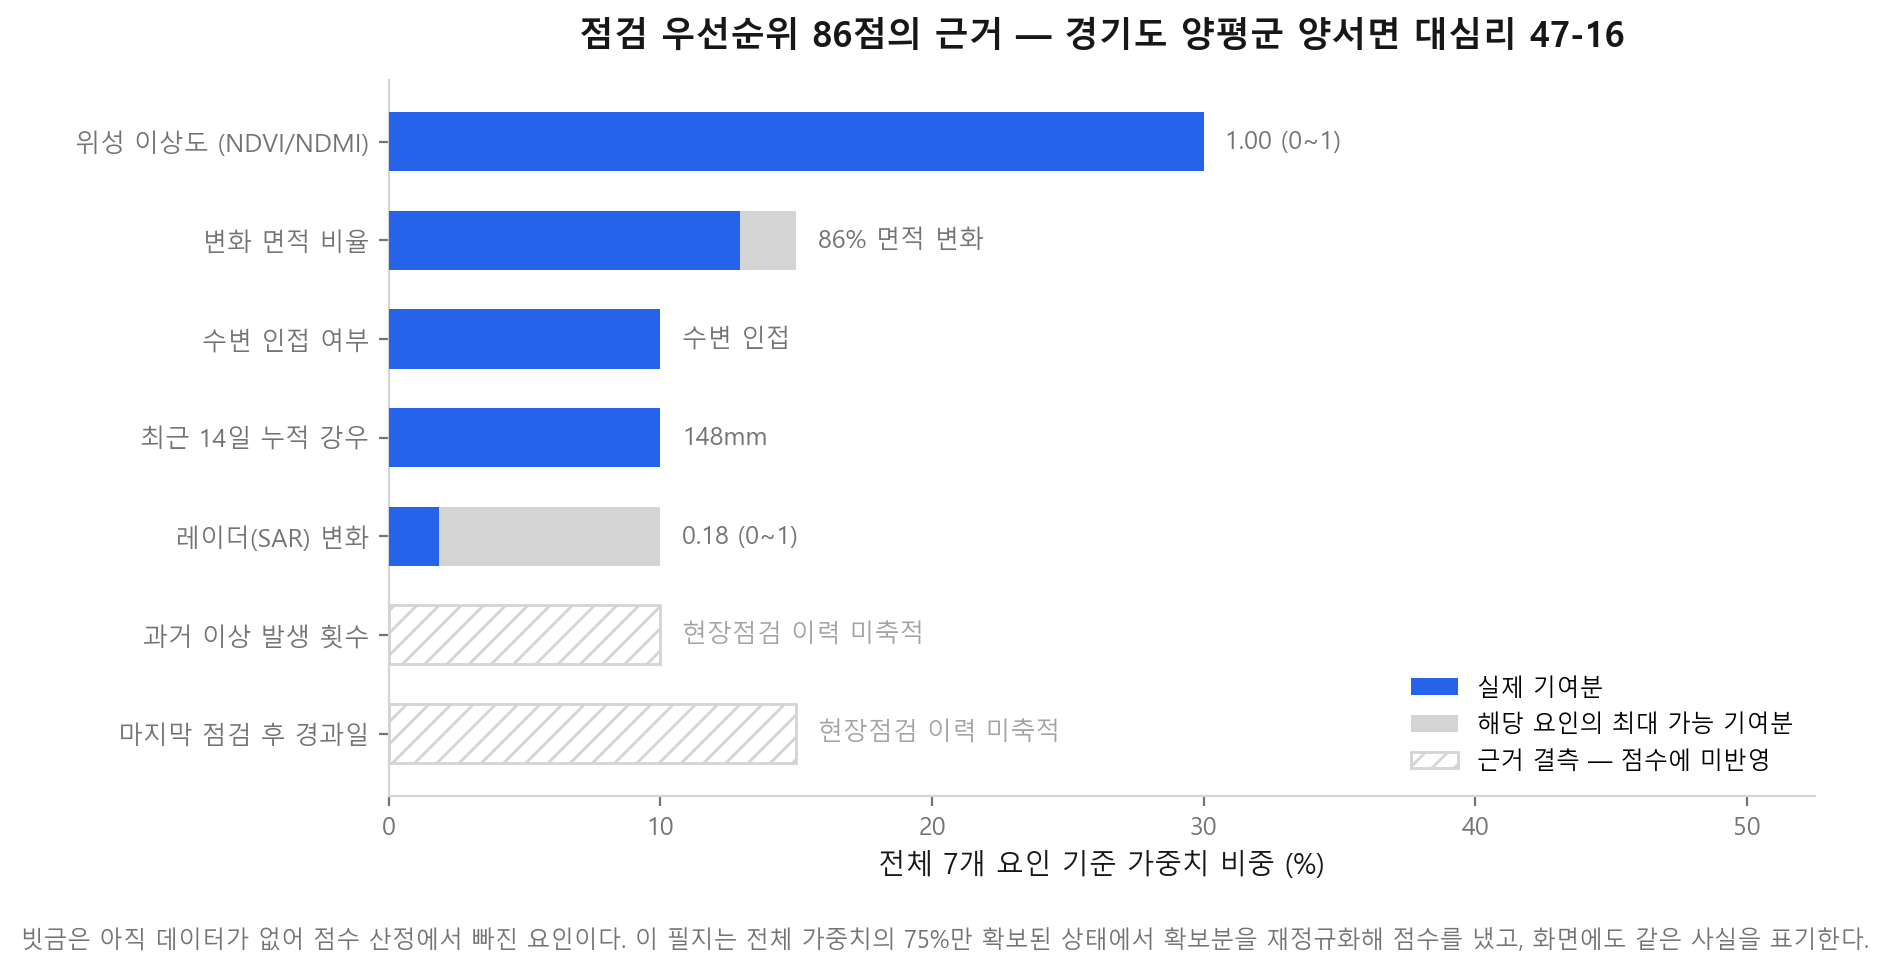
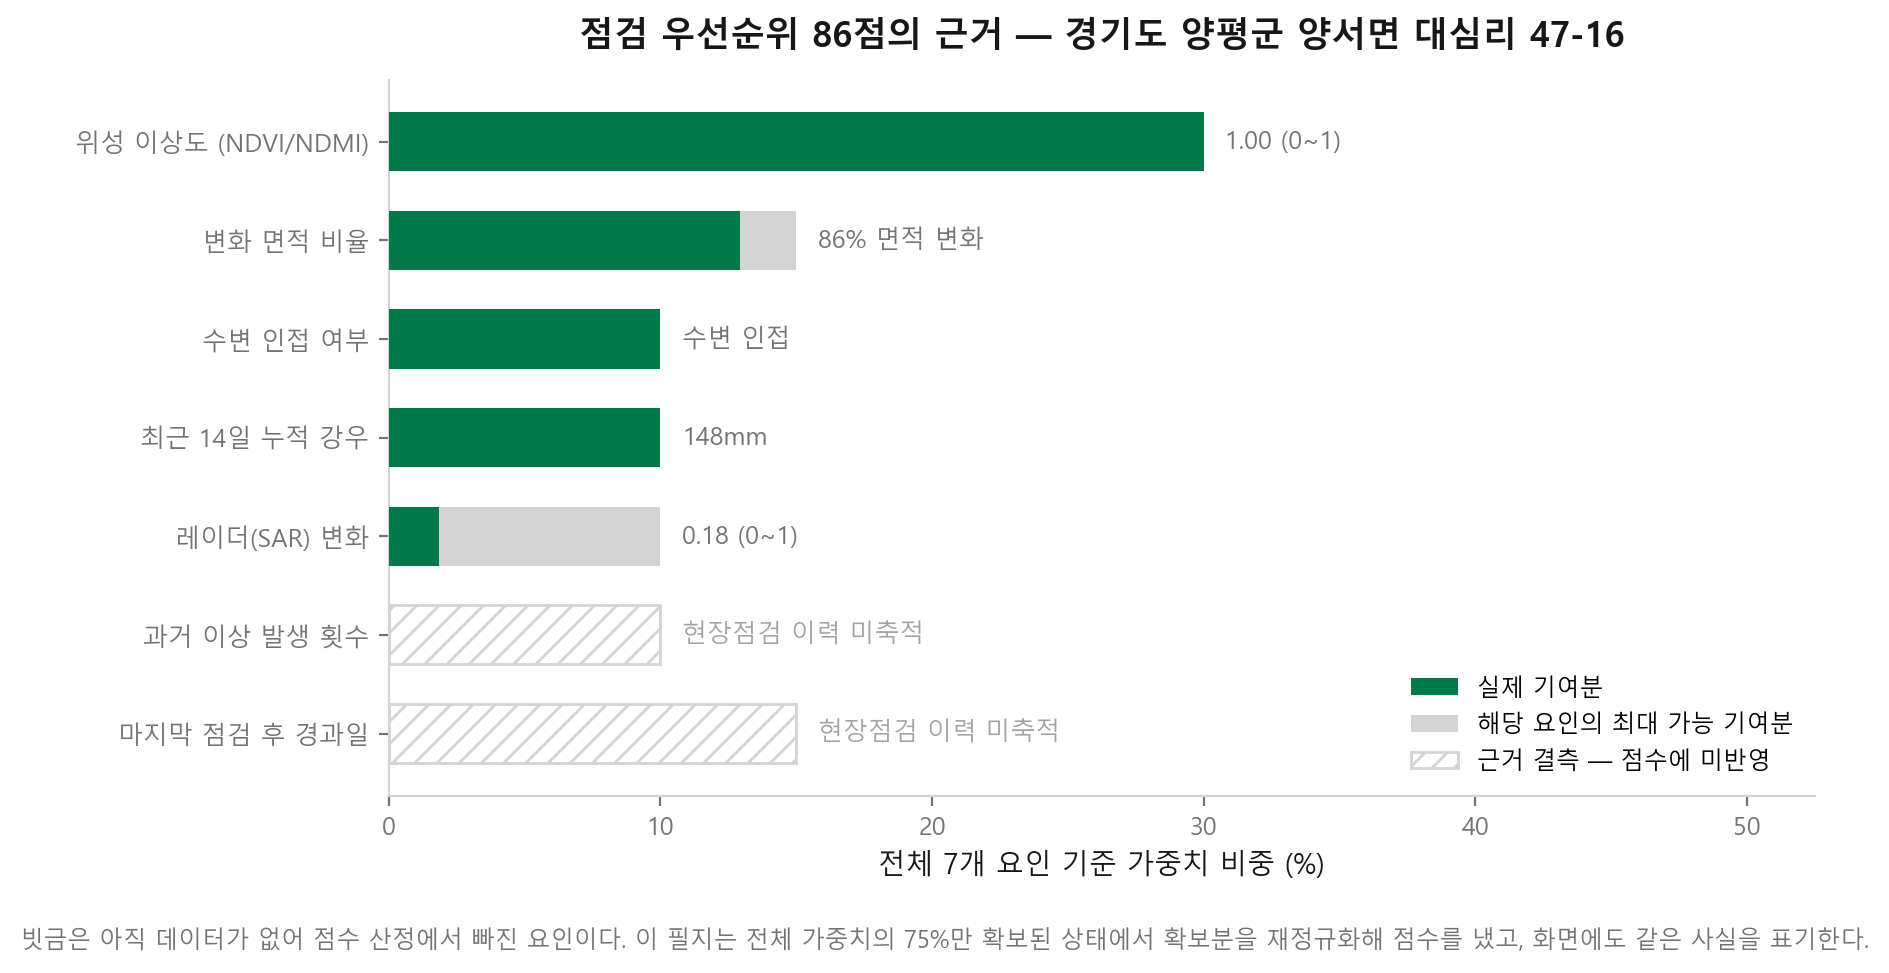
UI 색상 계열을 기관 CI 그린으로 전환하고 등급을 적-녹 램프로 재구성
로고 PNG에서 실제 색을 뽑아 팔레트를 만들었다(주색 #009058, 보조 라임 #90d000).
감으로 고르지 않았고, 쓰이는 자리마다 대비를 계산해서 값을 정했다.

--brand는 로고 원색 그대로가 아니라 #00794a로 한 단계 어둡게 잡았다. 원색
#009058은 흰 배경 대비 4.09:1이라 11~13px 본문·아이콘에 쓰기엔 부족한데,
--brand는 섹션 번호·강조 숫자·링크 색으로 쓰이기 때문이다(#00794a는 5.48:1).
로고 원색은 그라디언트의 밝은 끝(--brand-2)으로 남겼다.

글라스·그림자·반경 같은 재질 속성은 건드리지 않았다. 색상 계열만 바꿨다.
다만 그림자와 포커스 링의 rgba가 청록을 머금고 있어서 그 값만 초록으로 옮겼다.
앱 배경(#eef3f5)과 경계선도 푸른 회색이라 초록 기운의 회색으로 바꿨다.

등급 램프를 적색-CI그린 2색 구성으로 재편했다. 색상만으로 순서를 표현하면
적록색약에서 무너지므로 인접 단계마다 회색조 명도차를 0.06 이상 확보했다
(3순위를 #d4a017에서 #a3b545로 옮긴 이유가 이것이다 - 2순위·정상 양쪽과
명도가 동시에 벌어지는 값이 이 근처밖에 없었다).

figure에서 발견한 충돌 하나: F3 워크플로는 위성·시스템 단계를 파랑, 현장·드론
단계를 초록으로 나눠 그리고 있었다. 브랜드를 초록으로 바꾸면 두 계열이 같은
색이 되어 도식이 뭉개진다. 현장 계열을 CI 보조색 계열의 라임(#6a8f00)으로
옮겨 색상각을 80도 이상 벌렸다. 둘 다 로고에서 나온 색이라 통일감은 유지된다.

diff --git a/ui/app/globals.css b/ui/app/globals.css
@@ -1,24 +1,29 @@
 @import "tailwindcss";
 
-/* 디자인 토큰 — tradeprogram/policymaps의 :root를 계승한다.
-   청록 계열은 한국환경보전원의 정체성(물·환경)과 맞고, 기존 프로젝트들과 시각 언어가
-   통일된다. 다만 **의미색(등급·경고·정상)은 브랜드색으로 물들이지 않는다** — 1순위와
-   3순위가 비슷해 보이면 그 순간 도구로서 실패한다. 브랜드색은 크롬(헤더·활성상태·포커스)에만
-   쓰고, 데이터에는 판별력이 확보된 의미색만 쓴다. */
+/* 디자인 토큰 — 구조는 tradeprogram/policymaps의 :root를 계승하되, 색은 한국환경보전원
+   CI에서 뽑은 그린 계열로 맞췄다(로고 원본에서 실측: 주색 #009058, 보조 라임 #90d000).
+   글라스·그림자·반경 같은 재질 속성은 그대로 두고 색상 계열만 바꾼 것이다.
+
+   **의미색(등급·경고·정상)은 브랜드색으로 덮지 않는다** — 1순위와 3순위가 비슷해 보이면
+   그 순간 도구로서 실패한다. 브랜드색은 크롬(헤더·활성상태·포커스)에 쓰고, 데이터에는
+   판별력이 확보된 의미색만 쓴다. */
 :root {
-  --bg: #eef3f5;
+  --bg: #eef4f0;
   --surface: #ffffff;
   --surface-glass: rgba(255, 255, 255, 0.76);
   --surface-glass-strong: rgba(255, 255, 255, 0.88);
   --ink: #1a1d21;
   --ink-2: #545c66;
   --ink-3: #8a929c;
-  --line: rgba(108, 123, 138, 0.24);
-  --line-strong: rgba(108, 123, 138, 0.38);
-  --brand: #277086;
-  --brand-2: #3a8b9c;
-  --brand-soft: #e7f4f6;
-  --accent: #6fb7be;
+  --line: rgba(104, 126, 112, 0.24);
+  --line-strong: rgba(104, 126, 112, 0.38);
+  /* 한국환경보전원 CI 실측색(#009058)에서 파생한 그린 계열.
+     --brand는 본문·아이콘에 쓰므로 흰 배경 대비 5.48:1이 나오는 톤까지 어둡게 잡았다
+     (로고 원색 #009058은 4.09:1이라 작은 글자에 쓰기엔 부족하다). */
+  --brand: #00794a;
+  --brand-2: #009058;
+  --brand-soft: #e6f4ed;
+  --accent: #5cb88a;
   --warn: #b7791f;
   --warn-soft: #fdf6e3;
   --danger: #c0392b;
@@ -29,16 +34,17 @@
   --est: #7d5ba6;
   --est-soft: #f2edf9;
   --radius: 8px;
-  --shadow: 0 16px 40px rgba(39, 68, 82, 0.1), 0 2px 8px rgba(16, 24, 40, 0.06);
+  --shadow: 0 16px 40px rgba(16, 68, 46, 0.1), 0 2px 8px rgba(16, 24, 40, 0.06);
   --shadow-sm: 0 1px 3px rgba(16, 24, 40, 0.06), 0 1px 2px rgba(16, 24, 40, 0.04);
   --glass-blur: blur(16px) saturate(1.15);
 
-  /* 점검 우선순위 등급 — 판별력이 최우선이라 색상환에서 최대한 벌려 놓는다.
-     figure(scripts/generate_figures.py TIER_COLOR)와 같은 값을 쓴다. */
+  /* 점검 우선순위 등급 — 적색(경고)에서 기관 CI 그린까지 이어지는 2색 구성.
+     색상뿐 아니라 명도도 인접 단계마다 0.06 이상 벌려 적록색약에서도 순서가 남게 했다.
+     ui/lib/tiers.ts, scripts/generate_figures.py의 TIER_COLOR와 같은 값을 쓴다. */
   --tier-1: #c0392b;
   --tier-2: #e67e22;
-  --tier-3: #d4a017;
-  --tier-normal: #5b8c6e;
+  --tier-3: #a3b545;
+  --tier-normal: #009058;
 }
 
 @theme inline {
@@ -64,7 +70,7 @@
   --font-mono: var(--font-geist-mono);
 }
 
-/* 이 화면은 밝은 테마 하나로 고정한다 — 기관 업무화면이고, 등급 색(적/주/황/녹)의 판별력을
+/* 이 화면은 밝은 테마 하나로 고정한다 — 기관 업무화면이고, 등급 램프의 판별력을
    두 테마에서 동시에 보장하려면 팔레트를 두 벌 검증해야 한다. 선언하지 않으면 OS가 다크일 때
    select·input 같은 네이티브 컨트롤만 어둡게 렌더되어 화면이 섞인다. */
 :root {
@@ -109,18 +115,18 @@ body {
 }
 
 /* ── 컨트롤 ──────────────────────────────────────────────────────── */
-/* 떠 있는 AI 버튼 — 위성영상 위에 놓이므로 흰 유리 + 청록 글자로 대비를 만든다 */
+/* 떠 있는 AI 버튼 — 위성영상 위에 놓이므로 흰 유리 + 브랜드 그린 글자로 대비를 만든다 */
 .glass-fab {
-  background: linear-gradient(135deg, rgba(255, 255, 255, 0.82), rgba(231, 244, 246, 0.72));
+  background: linear-gradient(135deg, rgba(255, 255, 255, 0.82), rgba(230, 244, 237, 0.72));
   -webkit-backdrop-filter: var(--glass-blur);
   backdrop-filter: var(--glass-blur);
-  border: 1px solid rgba(111, 183, 190, 0.65);
+  border: 1px solid rgba(92, 184, 138, 0.65);
   color: var(--brand);
-  box-shadow: 0 8px 24px rgba(39, 68, 82, 0.22), inset 0 1px 0 rgba(255, 255, 255, 0.75);
+  box-shadow: 0 8px 24px rgba(16, 68, 46, 0.22), inset 0 1px 0 rgba(255, 255, 255, 0.75);
 }
 
 .glass-fab:hover {
-  background: linear-gradient(135deg, rgba(255, 255, 255, 0.92), rgba(231, 244, 246, 0.85));
+  background: linear-gradient(135deg, rgba(255, 255, 255, 0.92), rgba(230, 244, 237, 0.85));
   border-color: var(--accent);
 }
 
@@ -132,7 +138,7 @@ body {
 .pill-active {
   background: linear-gradient(135deg, var(--brand), var(--brand-2));
   color: #fff;
-  box-shadow: 0 2px 8px rgba(39, 112, 134, 0.32);
+  box-shadow: 0 2px 8px rgba(0, 121, 74, 0.32);
 }
 
 .btn-ghost {
@@ -158,7 +164,7 @@ body {
 
 .btn-primary:hover:not(:disabled) {
   filter: brightness(1.08);
-  box-shadow: 0 4px 12px rgba(39, 112, 134, 0.28);
+  box-shadow: 0 4px 12px rgba(0, 121, 74, 0.28);
 }
 
 .btn-primary:disabled {
@@ -180,7 +186,7 @@ body {
 .field:focus {
   outline: none;
   border-color: var(--accent);
-  box-shadow: 0 0 0 3px rgba(111, 183, 190, 0.24);
+  box-shadow: 0 0 0 3px rgba(92, 184, 138, 0.28);
 }
 
 /* 키보드 사용자를 위한 포커스 링 — 브랜드색으로 통일한다 */

diff --git a/ui/lib/tiers.ts b/ui/lib/tiers.ts
@@ -1,20 +1,21 @@
 // 점검 우선순위 등급의 표시 규칙 — 목록·지도·상세·보고서가 같은 값을 써야 한다.
 // scripts/generate_figures.py의 TIER_COLOR, globals.css의 --tier-* 와도 동일하게 유지할 것.
 //
-// 브랜드 청록으로 물들이지 않는다: 1순위와 3순위가 비슷해 보이는 순간 판별 도구로서 실패한다.
+// 적색(경고)에서 기관 CI 그린까지 이어지는 2색 구성. 색상만이 아니라 **명도**도 인접 단계마다
+// 0.06 이상 벌려 놓았다 — 적록색약에서 색상 구분이 무너져도 밝기로 순서가 남는다.
 export const TIER_ORDER = ["1순위", "2순위", "3순위", "정상"] as const;
 
 export const TIER_COLOR: Record<string, string> = {
   "1순위": "#c0392b",
   "2순위": "#e67e22",
-  "3순위": "#d4a017",
-  정상: "#5b8c6e",
+  "3순위": "#a3b545",
+  정상: "#009058",
 };
 
 /** 배지용 — 배경은 옅게, 글자는 진하게(옅은 배경 위 대비 확보). */
 export const TIER_BADGE: Record<string, { bg: string; fg: string }> = {
   "1순위": { bg: "rgba(192,57,43,0.12)", fg: "#c0392b" },
   "2순위": { bg: "rgba(230,126,34,0.14)", fg: "#b8621a" },
-  "3순위": { bg: "rgba(212,160,23,0.16)", fg: "#8a6508" },
-  정상: { bg: "rgba(91,140,110,0.14)", fg: "#1e7a4b" },
+  "3순위": { bg: "rgba(163,181,69,0.20)", fg: "#5f6d15" },
+  정상: { bg: "rgba(0,144,88,0.13)", fg: "#00794a" },
 };

diff --git a/ui/components/MapView.tsx b/ui/components/MapView.tsx
@@ -48,8 +48,8 @@ function waitForSource(map: MapLibreMap, sourceId: string, callback: () => void)
 const TIER_COLOR: Record<string, string> = {
   "1순위": "#c0392b",
   "2순위": "#e67e22",
-  "3순위": "#d4a017",
-  정상: "#5b8c6e",
+  "3순위": "#a3b545",
+  정상: "#009058",
 };
 
 export default function MapView({
@@ -134,7 +134,7 @@ export default function MapView({
           source: "route",
           layout: { "line-cap": "round", "line-join": "round" },
           // 점선 = "직선거리 기준 방문 순서"이지 실제 주행 경로가 아니라는 시각적 신호
-          paint: { "line-color": "#277086", "line-width": 2.5, "line-dasharray": [2, 2], "line-opacity": 0.9 },
+          paint: { "line-color": "#00794a", "line-width": 2.5, "line-dasharray": [2, 2], "line-opacity": 0.9 },
         });
 
         map.addSource("sites", { type: "geojson", data: { type: "FeatureCollection", features: [] } });

diff --git a/scripts/generate_figures.py b/scripts/generate_figures.py
@@ -37,12 +37,15 @@ INK = "#171717"
 MUTED = "#737373"
 FAINT = "#d4d4d4"
 RED = "#c0392b"
-GREEN = "#15803d"
-BLUE = "#2563eb"
+# 기관 CI에서 뽑은 두 계열. BLUE라는 이름은 호출부 호환으로 남겼지만 값은 CI 주색(그린)이다.
+GREEN = "#009058"  # CI 주색 — 긍정적 결과(오탐 0건, 절감률)에 쓴다
+BLUE = "#00794a"   # 화면의 --brand와 같은 값 — 위성·시스템 단계
+LIME = "#6a8f00"   # CI 보조색(#90d000) 계열 — 현장·드론 단계. BLUE와 색상각이 80도 이상
+                   # 벌어져야 F3 도식에서 두 계열이 구분된다(둘 다 초록이면 도식이 뭉개짐).
 ORANGE = "#e67e22"
 # ui/lib/tiers.ts, ui/app/globals.css의 --tier-* 와 반드시 같은 값 — 화면과 제안서 그림에서
 # 같은 등급이 다른 색으로 보이면 그 자체로 신뢰를 깎는다.
-TIER_COLOR = {"1순위": "#c0392b", "2순위": "#e67e22", "3순위": "#d4a017", "정상": "#5b8c6e"}
+TIER_COLOR = {"1순위": "#c0392b", "2순위": "#e67e22", "3순위": "#a3b545", "정상": "#009058"}
 
 
 def _api(path: str) -> dict:
@@ -437,20 +440,20 @@ def fig_workflow() -> None:
     ax.axis("off")
 
     _box(ax, 2.5, 7.9, 5, 0.85, "광역 위성 관측\nSentinel-2 · Sentinel-1 · (국토위성)", "#f5f5f5", FAINT, 10)
-    _box(ax, 2.5, 6.4, 5, 0.85, "변화 선별\n계절 정합 기준선 · 센서 일치 · 품질 게이트", "#eff6ff", BLUE, 10)
-    _box(ax, 2.5, 4.9, 5, 0.85, "점검 우선순위 + 근거\n왜 이 순위인가 · 증거 신뢰도", "#eff6ff", BLUE, 10, "bold")
-    _box(ax, 2.5, 3.4, 5, 0.85, "주간 점검 가능 인력에 맞춘 상위 N필지\n권역별 통합 방문 순서", "#eff6ff", BLUE, 10)
+    _box(ax, 2.5, 6.4, 5, 0.85, "변화 선별\n계절 정합 기준선 · 센서 일치 · 품질 게이트", "#e6f4ed", BLUE, 10)
+    _box(ax, 2.5, 4.9, 5, 0.85, "점검 우선순위 + 근거\n왜 이 순위인가 · 증거 신뢰도", "#e6f4ed", BLUE, 10, "bold")
+    _box(ax, 2.5, 3.4, 5, 0.85, "주간 점검 가능 인력에 맞춘 상위 N필지\n권역별 통합 방문 순서", "#e6f4ed", BLUE, 10)
 
-    _box(ax, 1.35, 1.6, 3.15, 0.85, "현장직원 확인", "#f0fdf4", GREEN, 10)
-    _box(ax, 5.5, 1.6, 3.15, 0.85, "드론 확인", "#f0fdf4", GREEN, 10)
-    _box(ax, 2.5, 0.2, 5, 0.85, "확정 · 결과 기록\n변화 유형 · 사진 · 오탐 사유", "#f0fdf4", GREEN, 10, "bold")
+    _box(ax, 1.35, 1.6, 3.15, 0.85, "현장직원 확인", "#f4f8e6", LIME, 10)
+    _box(ax, 5.5, 1.6, 3.15, 0.85, "드론 확인", "#f4f8e6", LIME, 10)
+    _box(ax, 2.5, 0.2, 5, 0.85, "확정 · 결과 기록\n변화 유형 · 사진 · 오탐 사유", "#f4f8e6", LIME, 10, "bold")
 
     for y0, y1 in ((7.9, 7.25), (6.4, 5.75), (4.9, 4.25)):
         _arrow(ax, (5, y0), (5, y1))
     _arrow(ax, (4.2, 3.4), (3.0, 2.45))
     _arrow(ax, (5.8, 3.4), (7.0, 2.45))
-    _arrow(ax, (3.0, 1.6), (4.2, 1.05), GREEN)
-    _arrow(ax, (7.0, 1.6), (5.8, 1.05), GREEN)
+    _arrow(ax, (3.0, 1.6), (4.2, 1.05), LIME)
+    _arrow(ax, (7.0, 1.6), (5.8, 1.05), LIME)
 
     # 환류 — 현장 결과가 다음 주기 우선순위로 되돌아간다.
     # 곡선(arc3)으로 그리면 좌측 "현장직원 확인" 박스를 관통하므로, 바깥으로 우회하는
@@ -495,7 +498,7 @@ def fig_architecture() -> None:
     for i, (code, name, out) in enumerate(modules):
         x = i * 1.5 + 0.08
         # AGENT는 판정에 관여하지 않으므로 색을 달리해 위치를 분명히 한다
-        fc, ec = ("#fafafa", FAINT) if code == "AGENT" else ("#eff6ff", BLUE)
+        fc, ec = ("#fafafa", FAINT) if code == "AGENT" else ("#e6f4ed", BLUE)
         _box(ax, x, 1.15, 1.34, 0.95, f"{code}\n{name}", fc, ec, 9.5, "bold")
         ax.text(x + 0.67, 0.85, out, ha="center", va="top", fontsize=7.8, color=MUTED)
         if i < len(modules) - 1:
